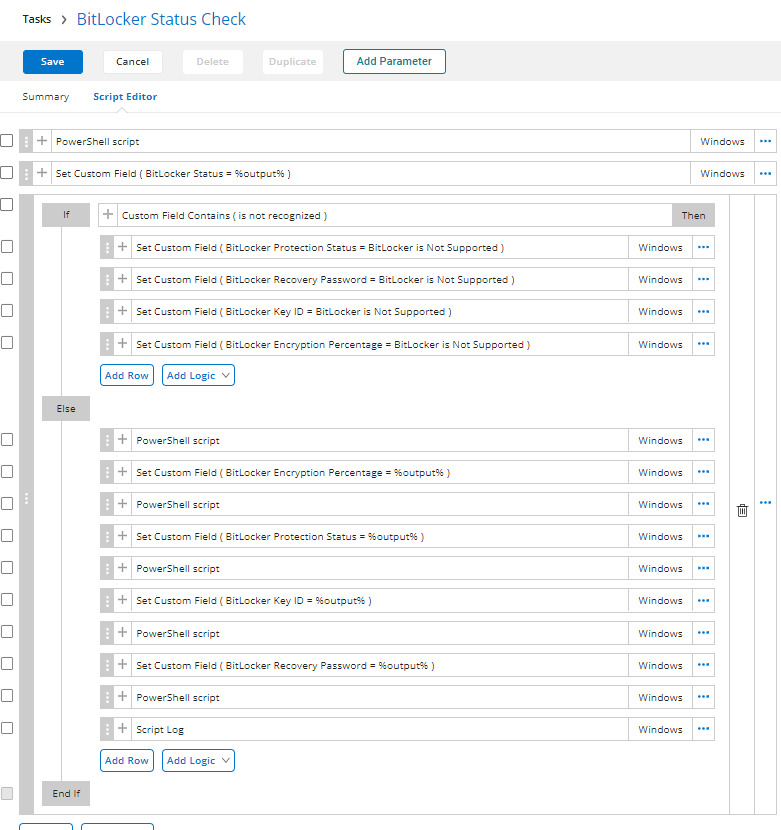
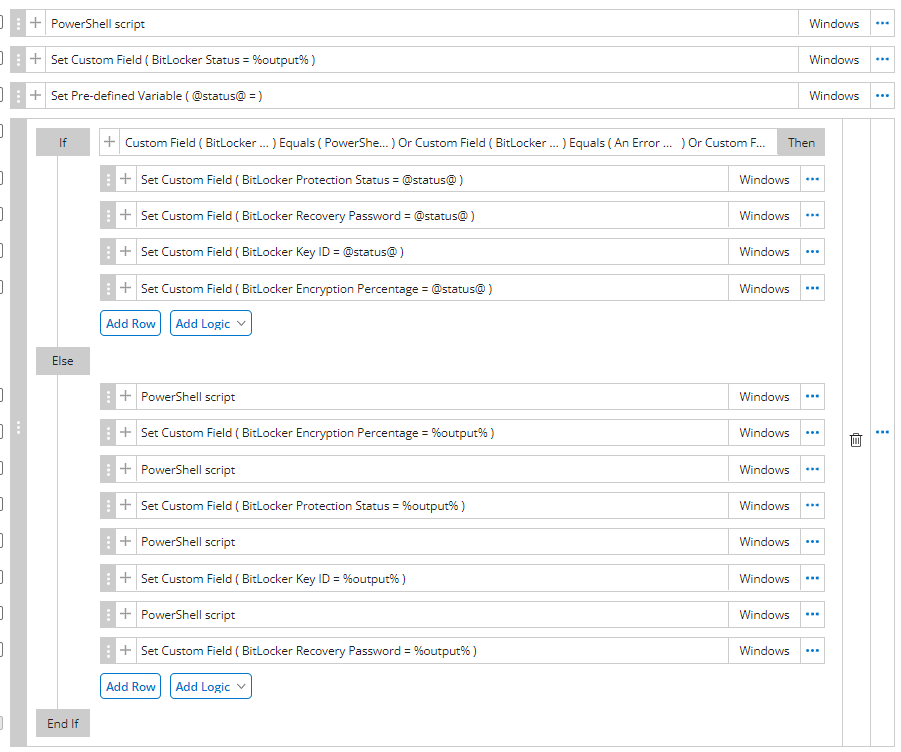
updates

Changed region(s): [[0.0, 0.0, 1.0, 1.0], [0.4302, 0.0306, 0.5839, 0.0918]]

diff --git a/README.md b/README.md
@@ -1,5 +1,42 @@
+Go to Settings > Custom Fields and add the following Custom Fields as Text Boxes on the Endpoint level and make sure they are Editable:
+
+BitLocker Encryption Percentage
+BitLocker Key ID
+BitLocker Protection Status
+BitLocker Recovery Password
+BitLocker Status
+
+They should look like this when you are done:
 <img
   src="/screenshots/CustomFields.png"
   alt="Custom Fields"
   title="Custom Fields"
+  style="display: inline-block; margin: 0 auto; max-width: 300px">
+
+Once those are in place, go to Automation > Tasks and create a new script called "BitLocker Status Check".  Give that a description and put it in a category like this:
+<img
+  src="/screenshots/ScriptSummary.png"
+  alt="Script Summary"
+  title="Script Summary"
+  style="display: inline-block; margin: 0 auto; max-width: 300px">
+
+Now we will create the actual script logic.  On the Script Editor tab create the following stucture (we will add the actual functions in a moment):
+<img
+  src="/screenshots/ScriptOutline.png"
+  alt="Script Summary"
+  title="Script Summary"
+  style="display: inline-block; margin: 0 auto; max-width: 300px">
+
+With the outline complete we will now start to fill things in.  Start by filling in the powershell script lines.  To do this we are going to expand out the  "Add Function" lines that will have powershell added to them starting with the first.  Next to the Function dropdown you will type powershell and select it like this: 
+<img
+  src="/screenshots/ScriptPowerShellLine.png"
+  alt="Script Summary"
+  title="Script Summary"
+  style="display: inline-block; margin: 0 auto; max-width: 300px">
+
+In the PowerShell script window that opens you will paste in the contents of the ps1 file shown in this screenshot from the git repo:
+<img
+  src="/screenshots/ScriptPowershell.png"
+  alt="Script Summary"
+  title="Script Summary"
   style="display: inline-block; margin: 0 auto; max-width: 300px">
